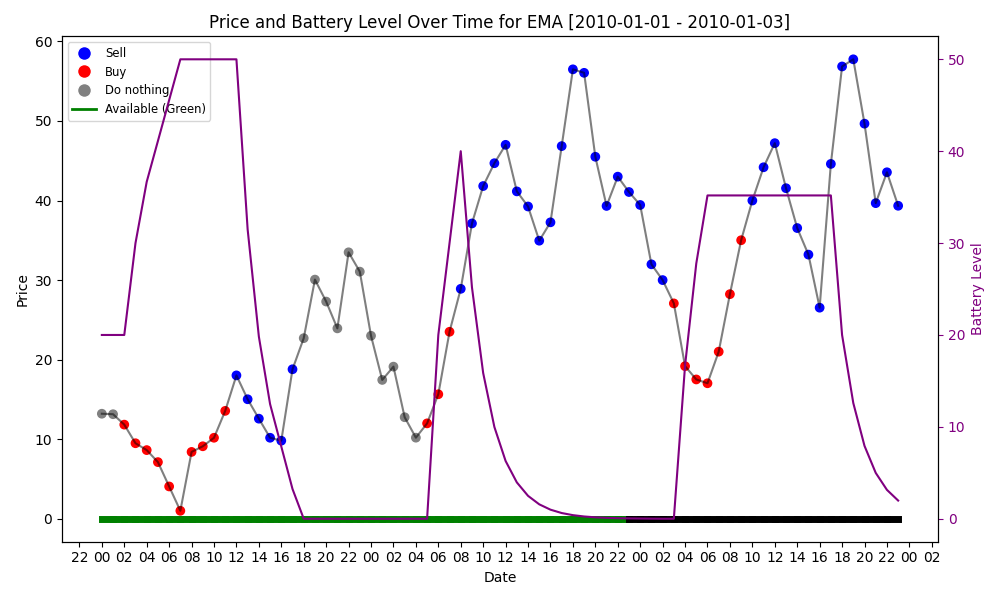
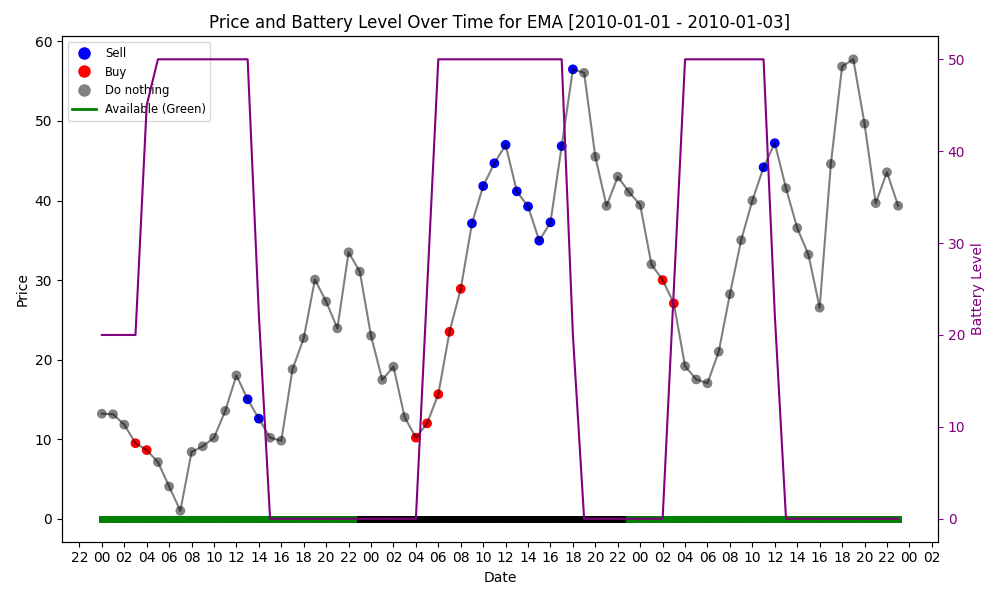
Improve EMA

diff --git a/algorithms.py b/algorithms.py
@@ -142,23 +142,20 @@ class EMA:
       
       # Choose the action
       # If the long EMA has not been calculated yet buy the max amount possible
-      if len(self.long_ema_history) < self.len_long and 3 <= state[1] <= 5:
-          self.action = -(self.max_battery - state[0]) / 3
-          self.amount = 3
+      if len(self.long_ema_history) < self.len_long and state[1] == 4:
+          self.action = -(self.max_battery - state[0])
       # If the short EMA is below the long EMA, buy
       elif self.short_ema < self.long_ema:
           self.ls_cross = 0
           self.sl_cross += 1
-          if self.sl_cross > 3:
-            if self.sl_cross == 2:
-                self.amount = 7 - state[1]
-            self.action = -(self.max_battery - state[0]) / self.amount
+          if self.sl_cross > 2 and 3 <= state[1] <= 6:
+            self.action = -(self.max_battery - state[0])
       # If the short EMA is above the long EMA, sell
       elif self.short_ema > self.long_ema:
           self.sl_cross = 0
           self.ls_cross += 1
-          if self.ls_cross > 1:
-              self.action = state[0] / self.amount
+          if self.ls_cross > 2:
+              self.action = state[0]
       # Otherwise, do nothing
       else:
           self.action = 0
@@ -200,9 +197,9 @@ class BuyLowSellHigh:
       # Choose the action 
 
       # Buy in the morning
-      if state[1] == 4:
+      if 4 <= state[1] <= 5:
           # If it is a new day, buy one seventh of the max battery
-          self.action -= (self.max_battery - state[0])
+          self.action -= (self.max_battery - state[0]) / 2
           self.amount = self.action
           # Append the action to the history
           self.buy = 2 * price

diff --git a/data/data_vis.py b/data/data_vis.py
@@ -319,24 +319,13 @@ def plot_revenue(log_env_ql, log_env_blsh, log_env_ema) -> None:
     plt.legend()
     plt.grid(True)
     plt.savefig('images/cumulative_reward.png')
-
-
 if __name__ == "__main__":
     # Clean the data
     df = clean_data('data/train.csv')
 
-    # FOr all hours, remove any rows where the value is greater than 150
-    for i in range(1, 25):
-        df = df[df[f'H{i}'] < 150]
-    # For all hours, remove any rows where the value is less than 1
-    for i in range(1, 25):
-        df = df[df[f'H{i}'] > 1]
-
     # Compute the median across each hour of the dataset
     df_mean = df.mean()
     print(df_mean)
-
-
 
     # # Add date columns
     # df = add_date_columns(df)

diff --git a/baseline.py b/baseline.py
@@ -10,7 +10,7 @@ from collections import defaultdict
 from data.data_vis import visualize_bat, plot_revenue
 
 # Constants
-NUM_EPISODES = 100  # Define the number of episodes for training
+NUM_EPISODES = 1  # Define the number of episodes for training
 
 def validate_agent(env: Env, agent: Type[QLearningAgent or BuyLowSellHigh or EMA], rl = False) -> None:
     """ Function to validate the agent on a validation set.
